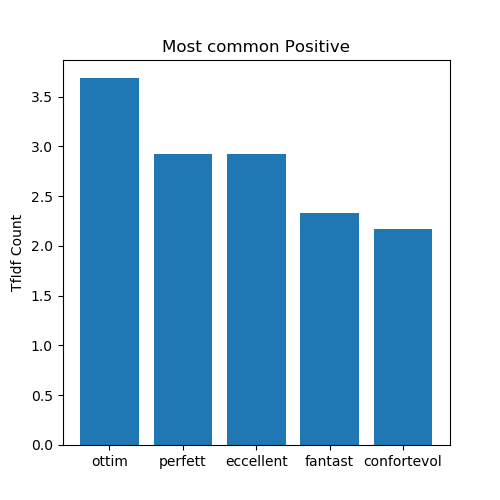
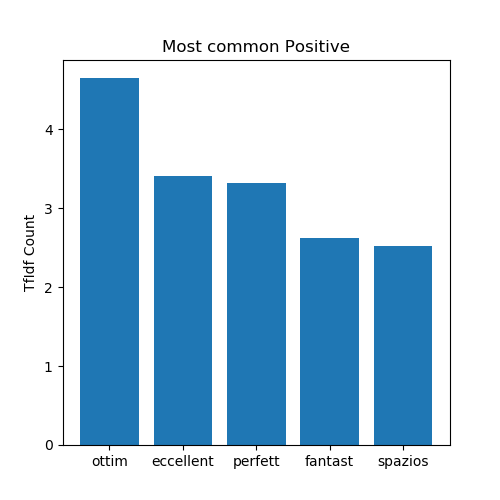
Best Process: f1- score is 0.96 LEADERBOARD SCORE: 0.971 Changed variables name for more clarity

diff --git a/Final_exam.py b/Final_exam.py
@@ -212,16 +212,16 @@ stop_words.extend(['abbi', 'abbiam', 'adess', 'allor', 'ancor', 'avemm', 'avend'
 
 tfidf_vec = TfidfVectorizer(tokenizer=stem, ngram_range=(1,2), binary=True, stop_words=stop_words, min_df=8)
 print('Vectorizing dev set..')
-X = tfidf_vec.fit_transform(dev_set['text'])
+X_dev = tfidf_vec.fit_transform(dev_set['text'])
 print('Vectorizing eval set..')
-X_test = tfidf_vec.transform(eva_set['text'])
+X_eva = tfidf_vec.transform(eva_set['text'])
 
 # Classification
 
 print('Start Classification:')
 labels = dev_set['class']
 # 1) Split data in Training and test set
-X_train, X_val, y_train, y_val = train_test_split(X, labels, test_size=0.2)
+X_train, X_test, y_train, y_test = train_test_split(X_dev, labels, test_size=0.2)
 # 2) Define a classifier
 clf = SGDClassifier()
 # clf = LinearSVC()
@@ -237,18 +237,18 @@ print("Best model configuration is:")
 print(clf.best_params_)
 print("with f1 = ", clf.best_score_)
 # 3) Output the statistics & perform the cross validation
-print_stats(y_val, clf.predict(X_val))
-f1_cv = cross_val_score(clf, X, labels, cv=3, scoring='f1_weighted')
+print_stats(y_test, clf.predict(X_test))
+f1_cv = cross_val_score(clf, X_dev, labels, cv=3, scoring='f1_weighted')
 mean_f1 = f1_cv.mean()
 std_f1 = f1_cv.std()
 print(f"f1 (statistics): {mean_f1:.2f} (+/- {std_f1:.2f})")
 # Get seaborn confusion matrix
-get_sns_cfmatrix(y_val, clf.predict(X_val))
+get_sns_cfmatrix(y_test, clf.predict(X_test))
 # 4) Fit the final model with the best hyperparameters found
 print('Fitting final model...')
 final_model = clf.best_estimator_
 final_model.fit(X_train, y_train)
-y_pred = final_model.predict(X_test)
+y_pred = final_model.predict(X_eva)
 
 # Showing the post common terms in both categories
 get_top_terms(5, final_model, tfidf_vec)
